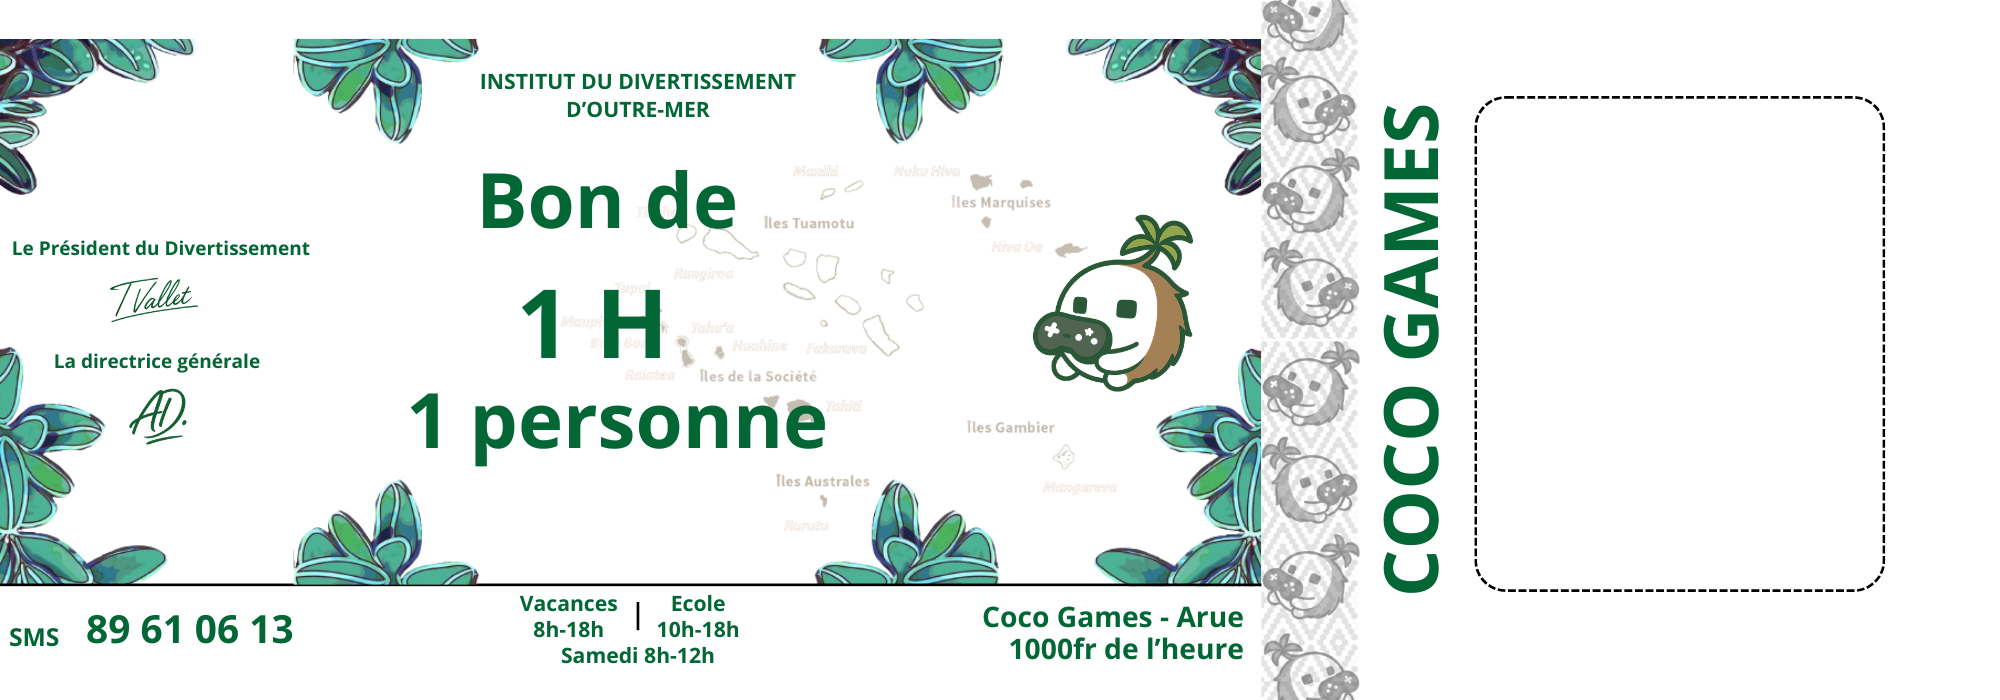
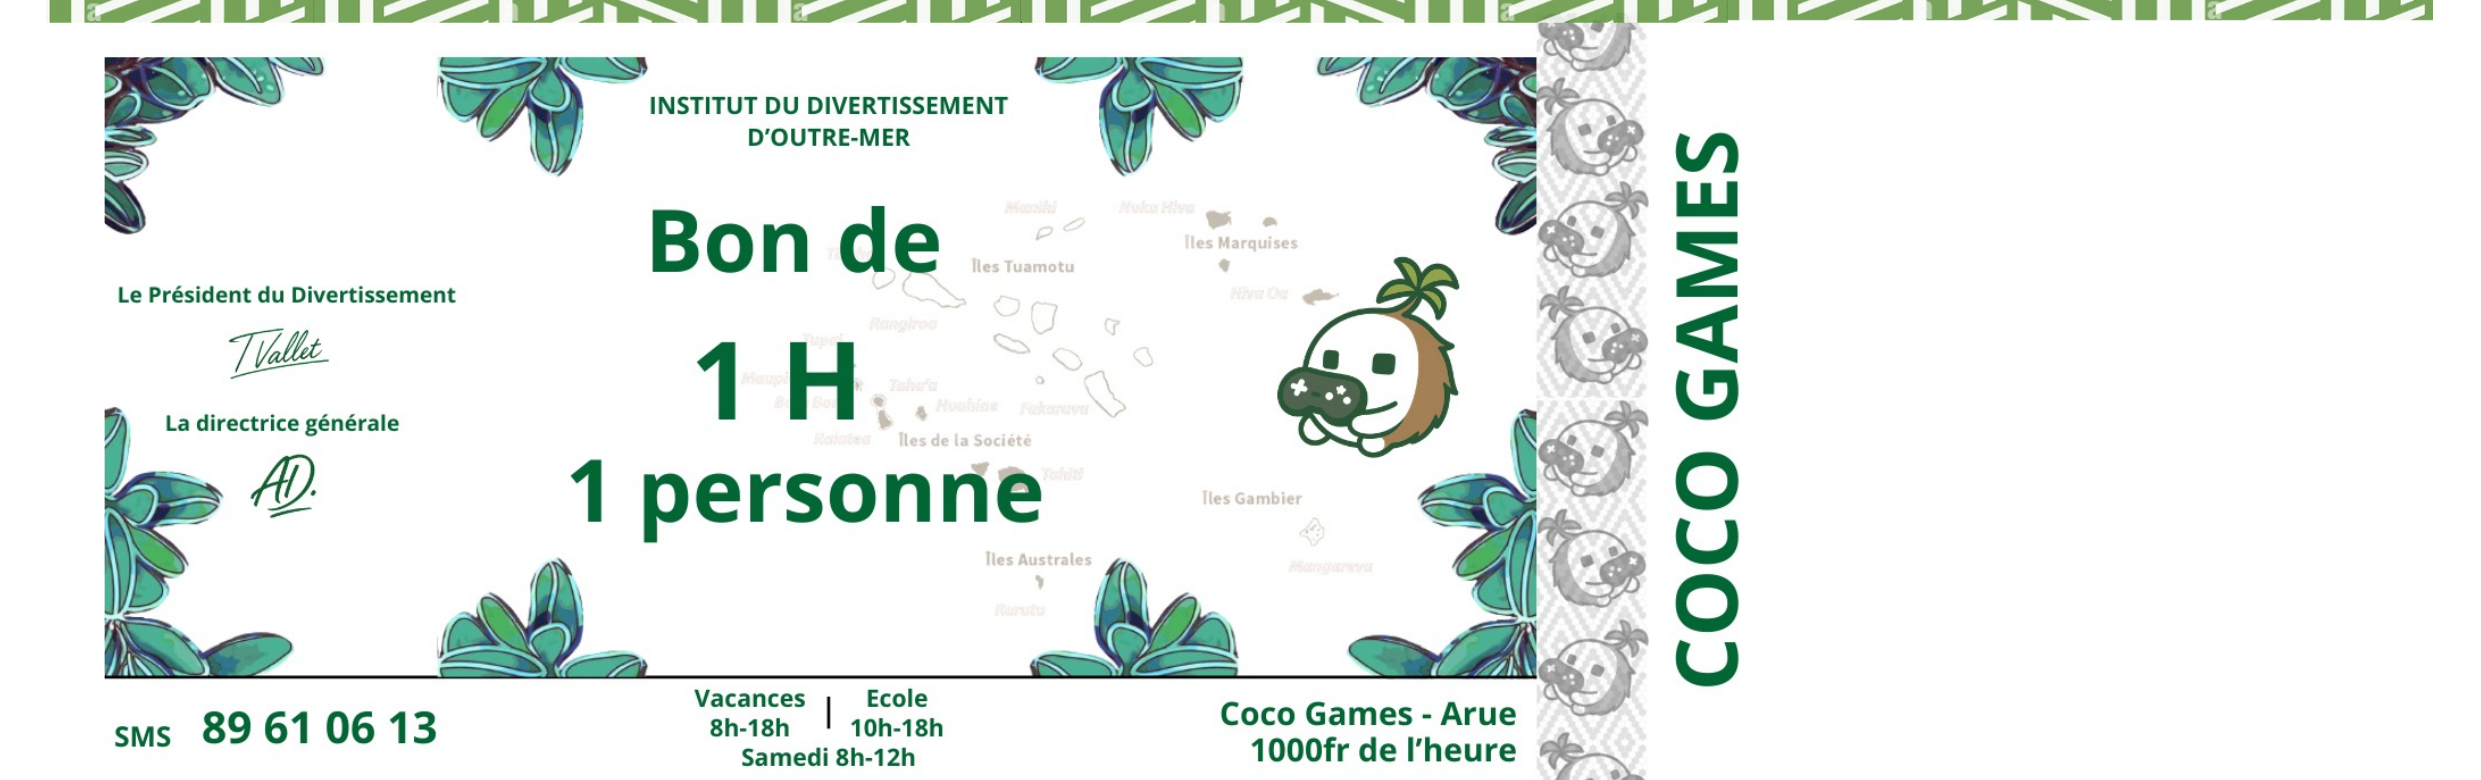
Nouveau visuel sans encart + code-barres dans encart separe a droite

diff --git a/barcodes.html b/barcodes.html
@@ -74,44 +74,38 @@
             display: block;
         }
 
-        /* Voucher = image + barcode overlay */
+        /* Voucher = image + barcode area */
         .voucher {
             position: relative;
             width: 200mm;
-            height: 70mm;
+            display: flex;
             page-break-inside: avoid;
         }
         .voucher img {
-            width: 100%;
-            height: 100%;
+            flex: 1;
+            height: 63mm;
             object-fit: fill;
             display: block;
         }
 
-        /* Barcode overlay — fits inside the dashed encart */
-        .barcode-overlay {
-            position: absolute;
-            right: 1.2%;
-            top: 8%;
-            width: 13.5%;
-            height: 84%;
+        /* Barcode encart to the right of the image */
+        .barcode-encart {
+            width: 30mm;
+            height: 63mm;
+            border: 2.5px dashed #333;
+            border-radius: 8px;
             display: flex;
             align-items: center;
             justify-content: center;
-            overflow: hidden;
+            background: white;
+            flex-shrink: 0;
         }
         .barcode-inner {
             transform: rotate(-90deg);
             transform-origin: center center;
-            width: 55mm;
-            height: 20mm;
-            display: flex;
-            align-items: center;
-            justify-content: center;
         }
         .barcode-inner svg {
             display: block;
-            max-height: 20mm;
         }
 
         @media print {
@@ -236,16 +230,16 @@
             img.alt = 'Bon cadeau Coco Games';
             voucher.appendChild(img);
 
-            var overlay = document.createElement('div');
-            overlay.className = 'barcode-overlay';
+            var encart = document.createElement('div');
+            encart.className = 'barcode-encart';
 
             var inner = document.createElement('div');
             inner.className = 'barcode-inner';
 
             var svg = document.createElementNS('http://www.w3.org/2000/svg', 'svg');
             inner.appendChild(svg);
-            overlay.appendChild(inner);
-            voucher.appendChild(overlay);
+            encart.appendChild(inner);
+            voucher.appendChild(encart);
 
             JsBarcode(svg, code, {
                 format: 'CODE128',
